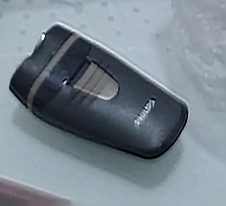
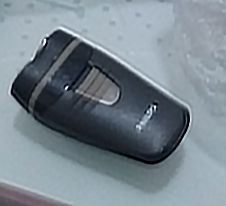
update

diff --git a/hai_deblur_test1/demo.m b/hai_deblur_test1/demo.m
@@ -12,9 +12,9 @@ lambda_kernel_smooth = 1e-5; %(Adjustable, typically 1e-5, 1e-4, 1e-3)
 display = 1;
 %%%%%%%%%%%%%%%%%%%%%%%%%%%%%%%%%%%%%%%%%%%%%%%%%%%%%%
 % %% example 1
-filename = 'image/postcard.png';
+filename = 'image/image10.png';
 % filename = 'image/image3.png';
-kernel_sizeh = 30; kernel_sizew = 30;
+kernel_sizeh = 45; kernel_sizew = 45;
 % kernel_sizeh = 35; kernel_sizew = 35;
 
 lambda_kernel_smooth = 1e-5;
